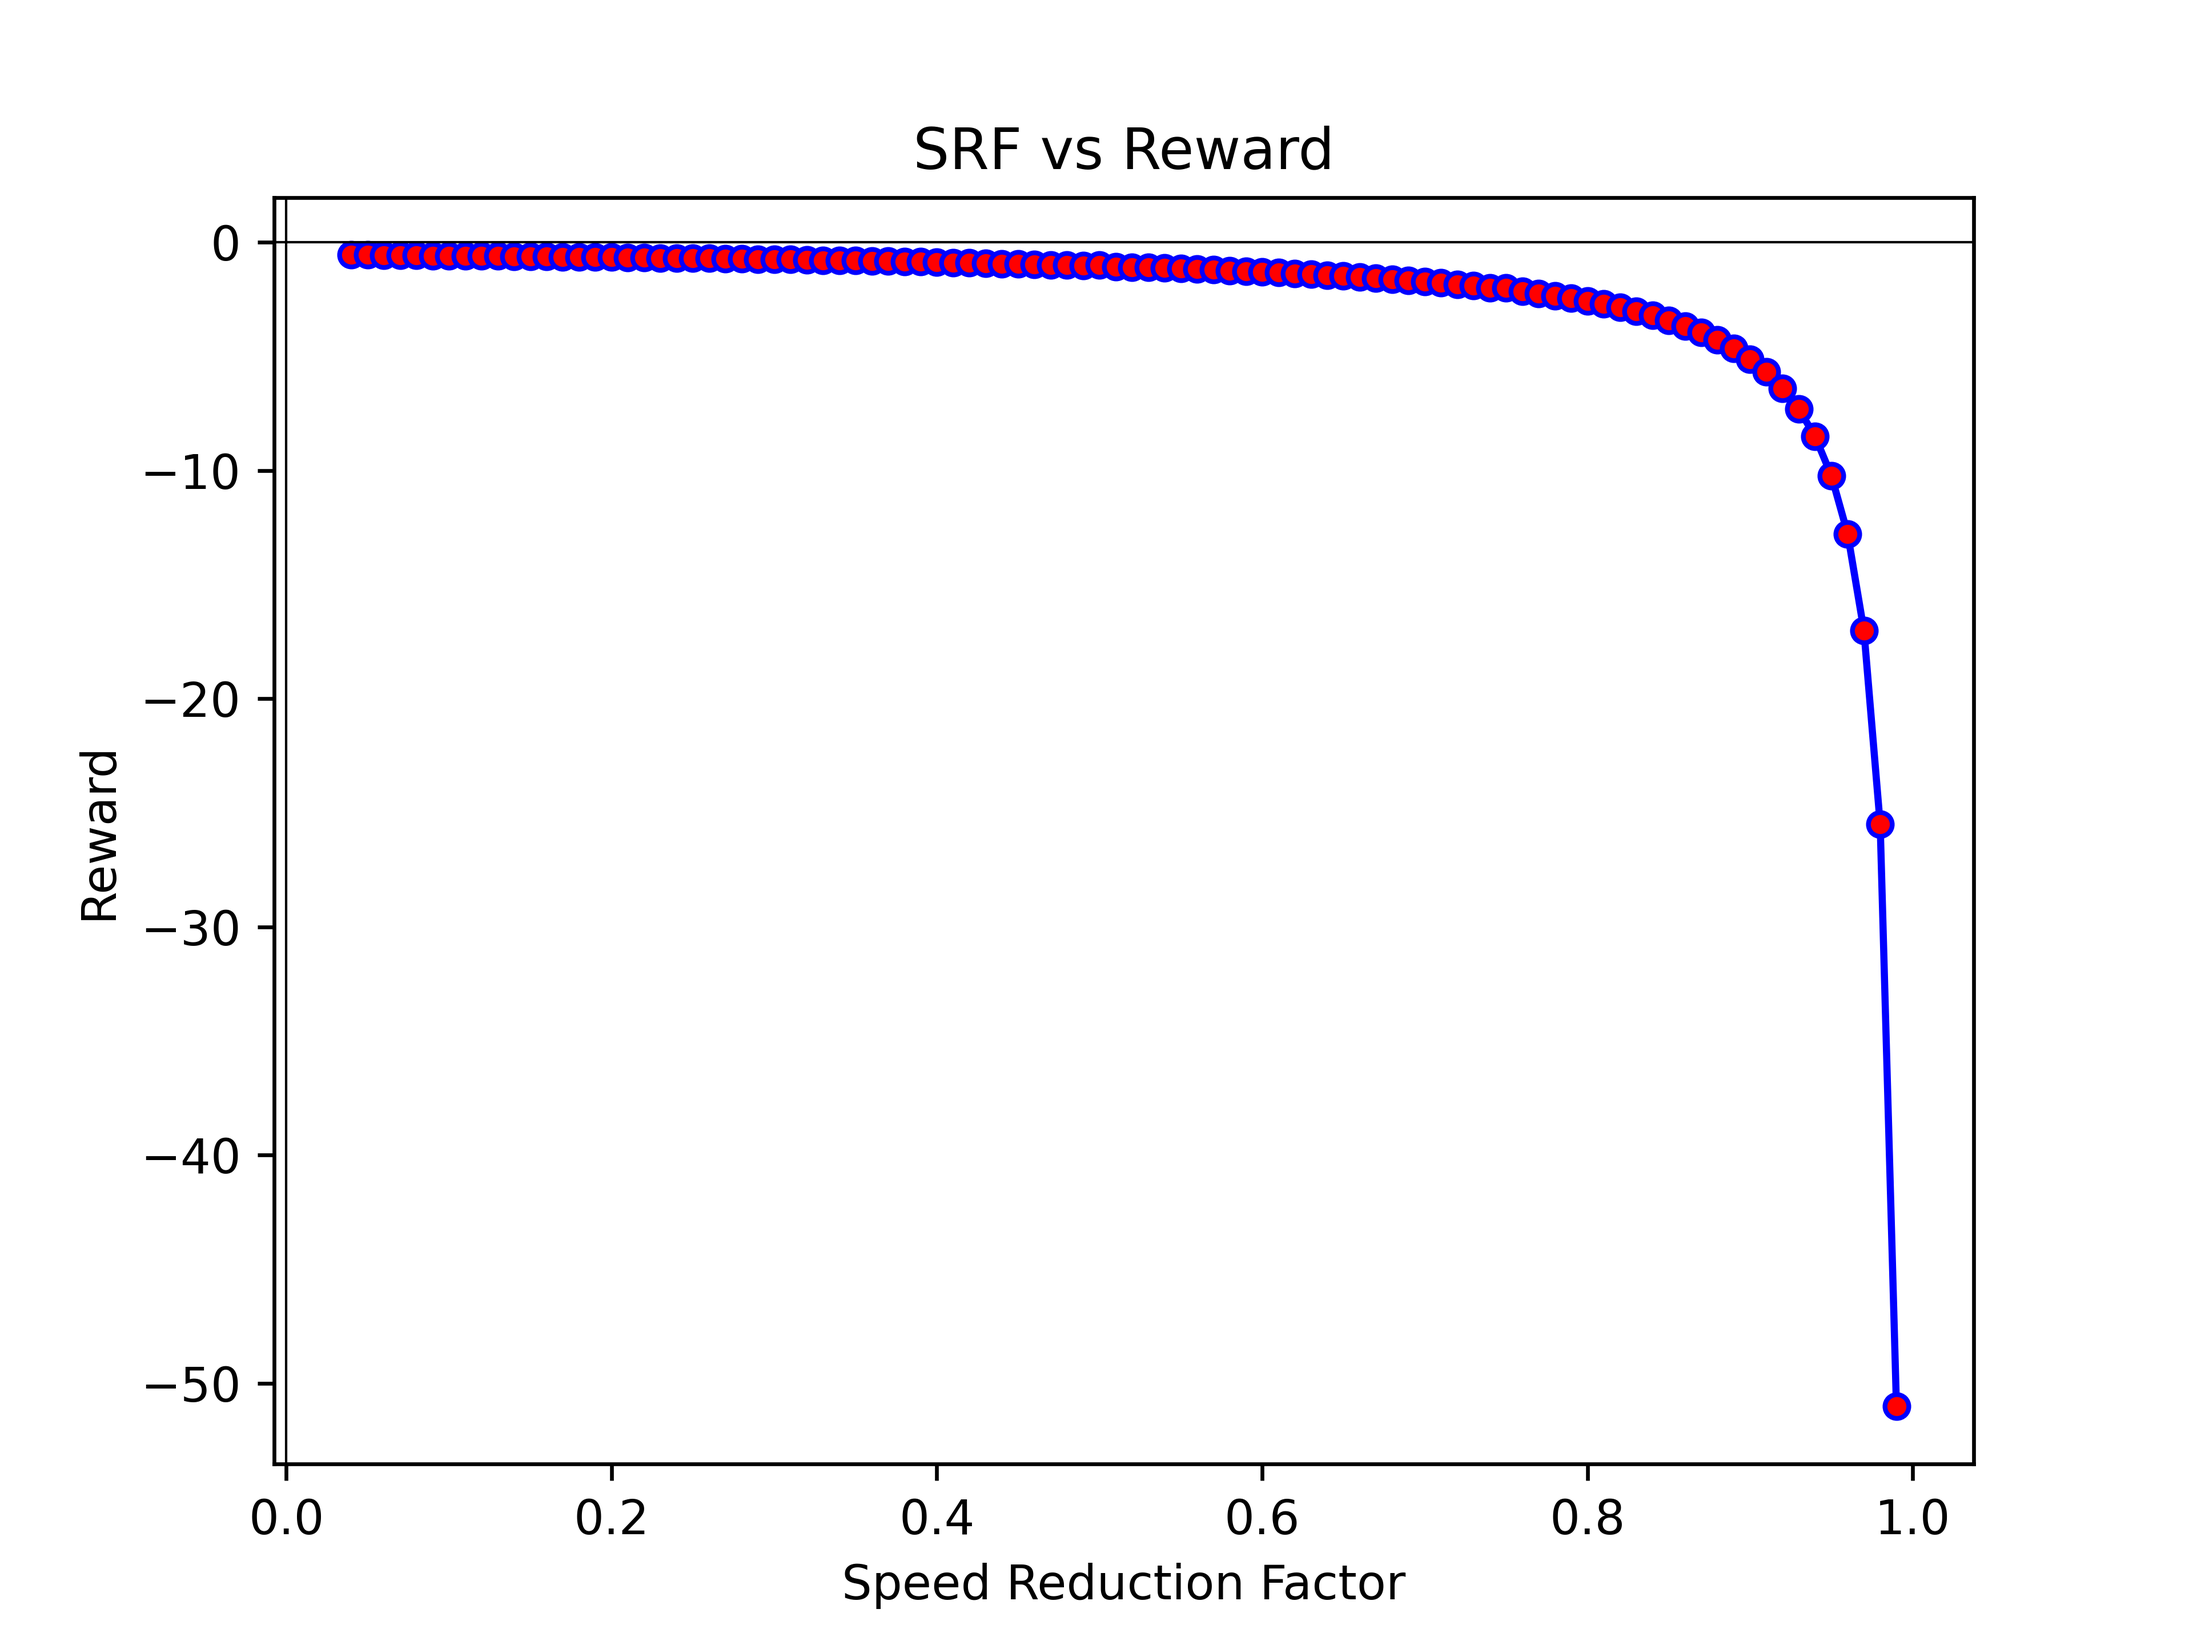
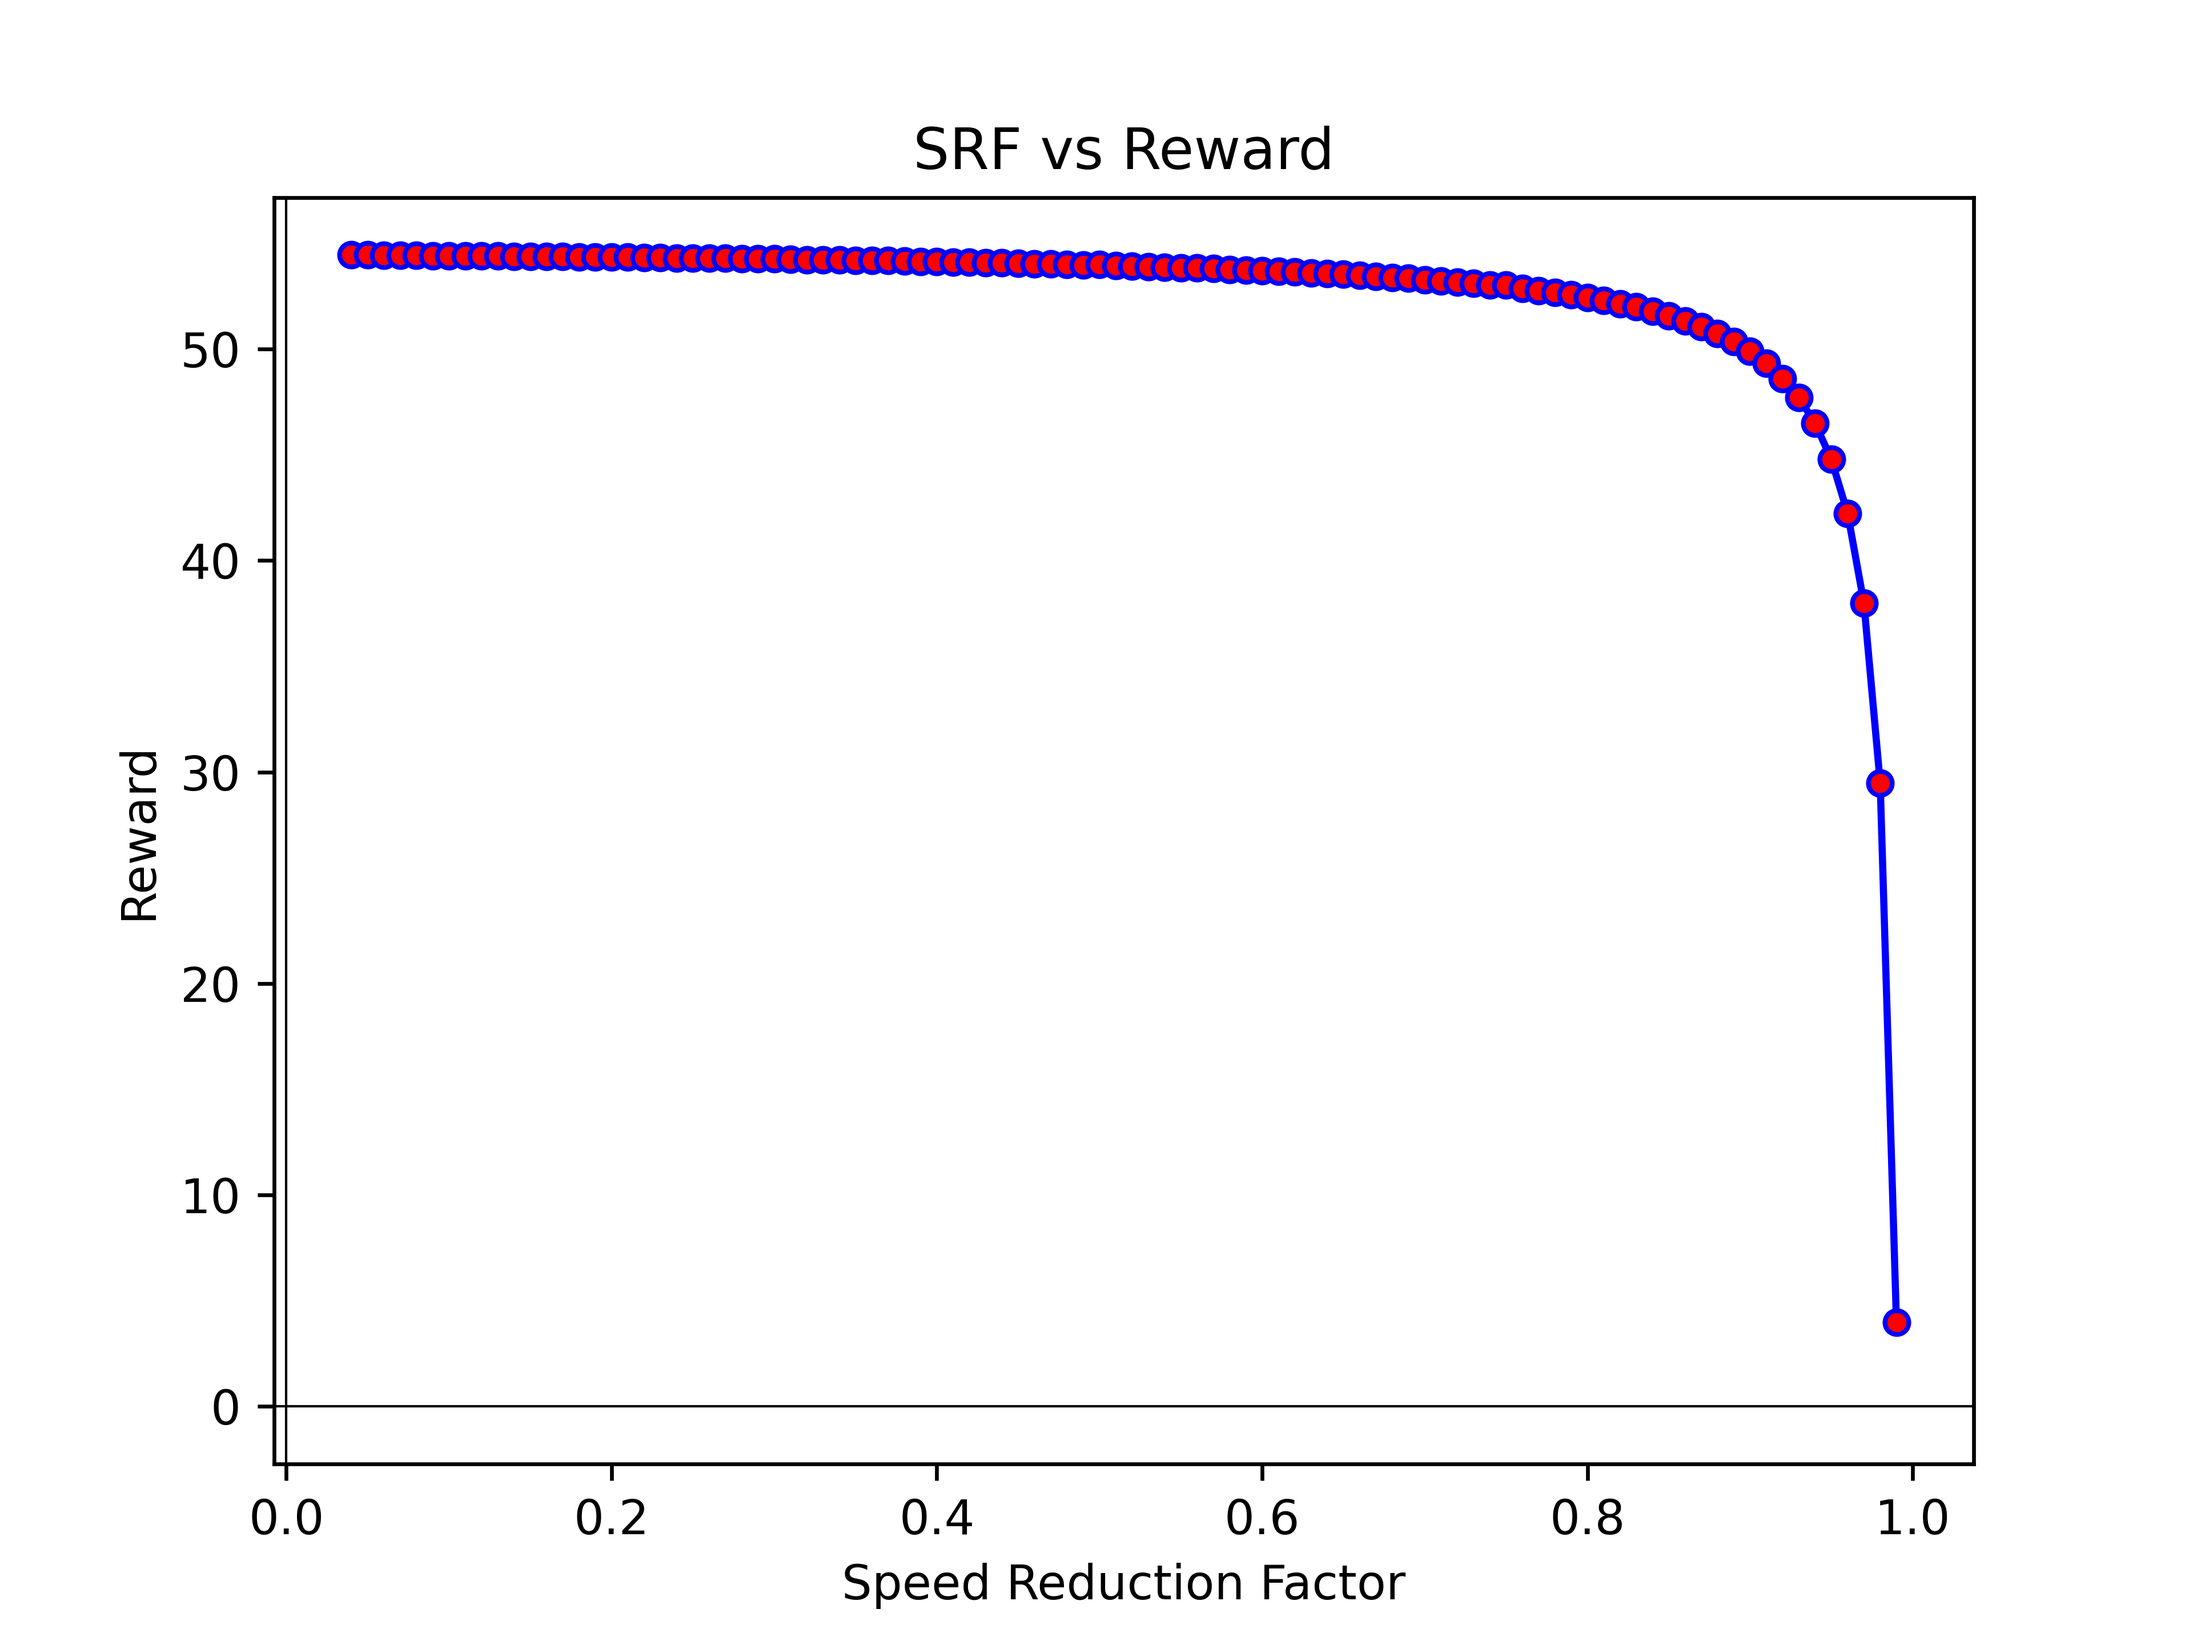
add and update plots

diff --git a/plotting/weights.py b/plotting/weights.py
@@ -1,0 +1,38 @@
+# create a 2d array of size 2x100 
+# the values can either be 0, 0.48 or 0.76
+# the second row should have a different value than the first row for the same column
+import numpy as np
+
+# Define the possible values
+values = [0, 0.48, 0.76, 1]
+
+# Initialize the 2D array
+weights = np.zeros((2, 100))
+
+# Fill the array
+for i in range(100):
+    weights[0, i] = np.random.choice(values)
+    if weights[0, i] == 0 and np.random.rand() > 0.1:
+        weights[0, i] = 0.48
+    # Remove the chosen value for the first row from the options for the second row
+    second_row_values = [value for value in values[1:] if value != weights[0, i]]
+    weights[1, i] = np.random.choice(second_row_values)
+    if np.random.rand() > 0.65:
+        # set the second row value to be the same as the first row value
+        weights[1, i] = weights[0, i]
+
+# plot the values in a line graph with two lines of different colors
+
+import matplotlib.pyplot as plt
+
+# set y axis limit to be 0 to 5
+
+plt.ylim(0, 1.5)
+plt.plot(weights[0], color='blue')
+plt.plot(weights[1], color='red')
+
+# set the x axis label to be "time"
+plt.xlabel("Time")
+plt.ylabel("Weight/Speed")
+plt.title("Values of edge weights in two successive edges of a lane")
+plt.show()

diff --git a/4 way/simulation/simulate.py b/4 way/simulation/simulate.py
@@ -84,6 +84,8 @@ class PointsDataProcessor:
 
         points5 = [(1, x) for x in range(41)]
 
+        points6 = [(x, 1) for x in range(-50, 1)]
+
         for car in cars_way:
             result=[]
             with open("simulation_logs.log", "w") as f:
@@ -106,6 +108,8 @@ class PointsDataProcessor:
                         elif point[0]==0 and (point[1]>=-50 and point[1]<0):
                             result.extend(self.scale_points([point],points3, [(0, -50), (0, 0)], [(600, 500), (600, 200)]))
                             f.write("case 5" + "\n")
+                        elif (point[0]>=-50 and point[0]<0) and point[1]==1:
+                            result.extend(self.scale_points([point], points6, [(-50, 1), (0, 1)], [(300, 200), (600, 200)]))
             if car['way']=="SE":
                 car["points"]=[(x,y+10) for x,y in result]
             elif car['way']=="WS":
@@ -172,7 +176,7 @@ while running:
         i += 1
 
     pygame.display.flip()
-    clock.tick(25)
+    clock.tick(8)
 
 # Quit Pygame
 pygame.quit()

diff --git a/plotting/heatmap-q_learning.py b/plotting/heatmap-q_learning.py
@@ -3,19 +3,25 @@ import matplotlib.pyplot as plt
 
 # Create a 2D array of data
 data = [
-    [0, 5040],
-    [4320, 0]
+    [0, 5040, 312],
+    [4320, 0, 1440],
+    [1080, 216, 0]
 ]
 
+# data = [
+#     [0, 920],
+#     [920, 0]
+# ]
+
 # Create a heatmap using Seaborn
-sns.heatmap(data, annot=True, cmap='viridis', xticklabels=['Lane 1', 'Lane 2'], yticklabels=['Lane 1', 'Lane 2'])
+sns.heatmap(data, annot=True, cmap='viridis', xticklabels=['Lane 1', 'Lane 2'], yticklabels=['Lane 1', 'Lane 2'], vmin=0, vmax=5000, fmt='g')
 
 # Add labels to the x and y axis
 plt.xlabel('Destination Lane')
 plt.ylabel('Source Lane')
 
 # Add a title to the heatmap
-plt.title('Throughput Matrix for a T-junction (vehicles/hour)', pad=20)
+plt.title('Throughput Matrix for a T-junction with RL controller (vehicles/hour)', pad=20)
 
 # Display the heatmap
 plt.show()

diff --git a/plotting/plot.py b/plotting/plot.py
@@ -1,7 +1,10 @@
 import matplotlib.pyplot as plt
 import pandas as pd
 
-df=pd.read_csv('plotting/data/reward.csv', names=['speed reduction factor','reward'])
+df=pd.read_csv('plotting/data/positive.csv', names=['speed reduction factor','reward'])
+
+# add 100 to all values of reward
+df['reward'] = df['reward'] + 55
 
 plt.plot(df['speed reduction factor'], df['reward'],color='blue', marker='o', markersize=5, markerfacecolor='red')
 

diff --git a/plotting/bar.py b/plotting/bar.py
@@ -1,0 +1,16 @@
+import matplotlib.pyplot as plt
+
+# Define the bar labels and values
+labels = ['Traditional Traffic Light', 'Q Learning based controller']
+values = [2, 1.34]
+
+# Create the bar chart
+plt.bar(labels, values, color=['blue', 'green'])
+
+# Add a title
+plt.title('Comparison of Time Taken to Clear the Intersection')
+
+plt.ylabel("Time taken (s)")
+
+# Show the plot
+plt.show()
